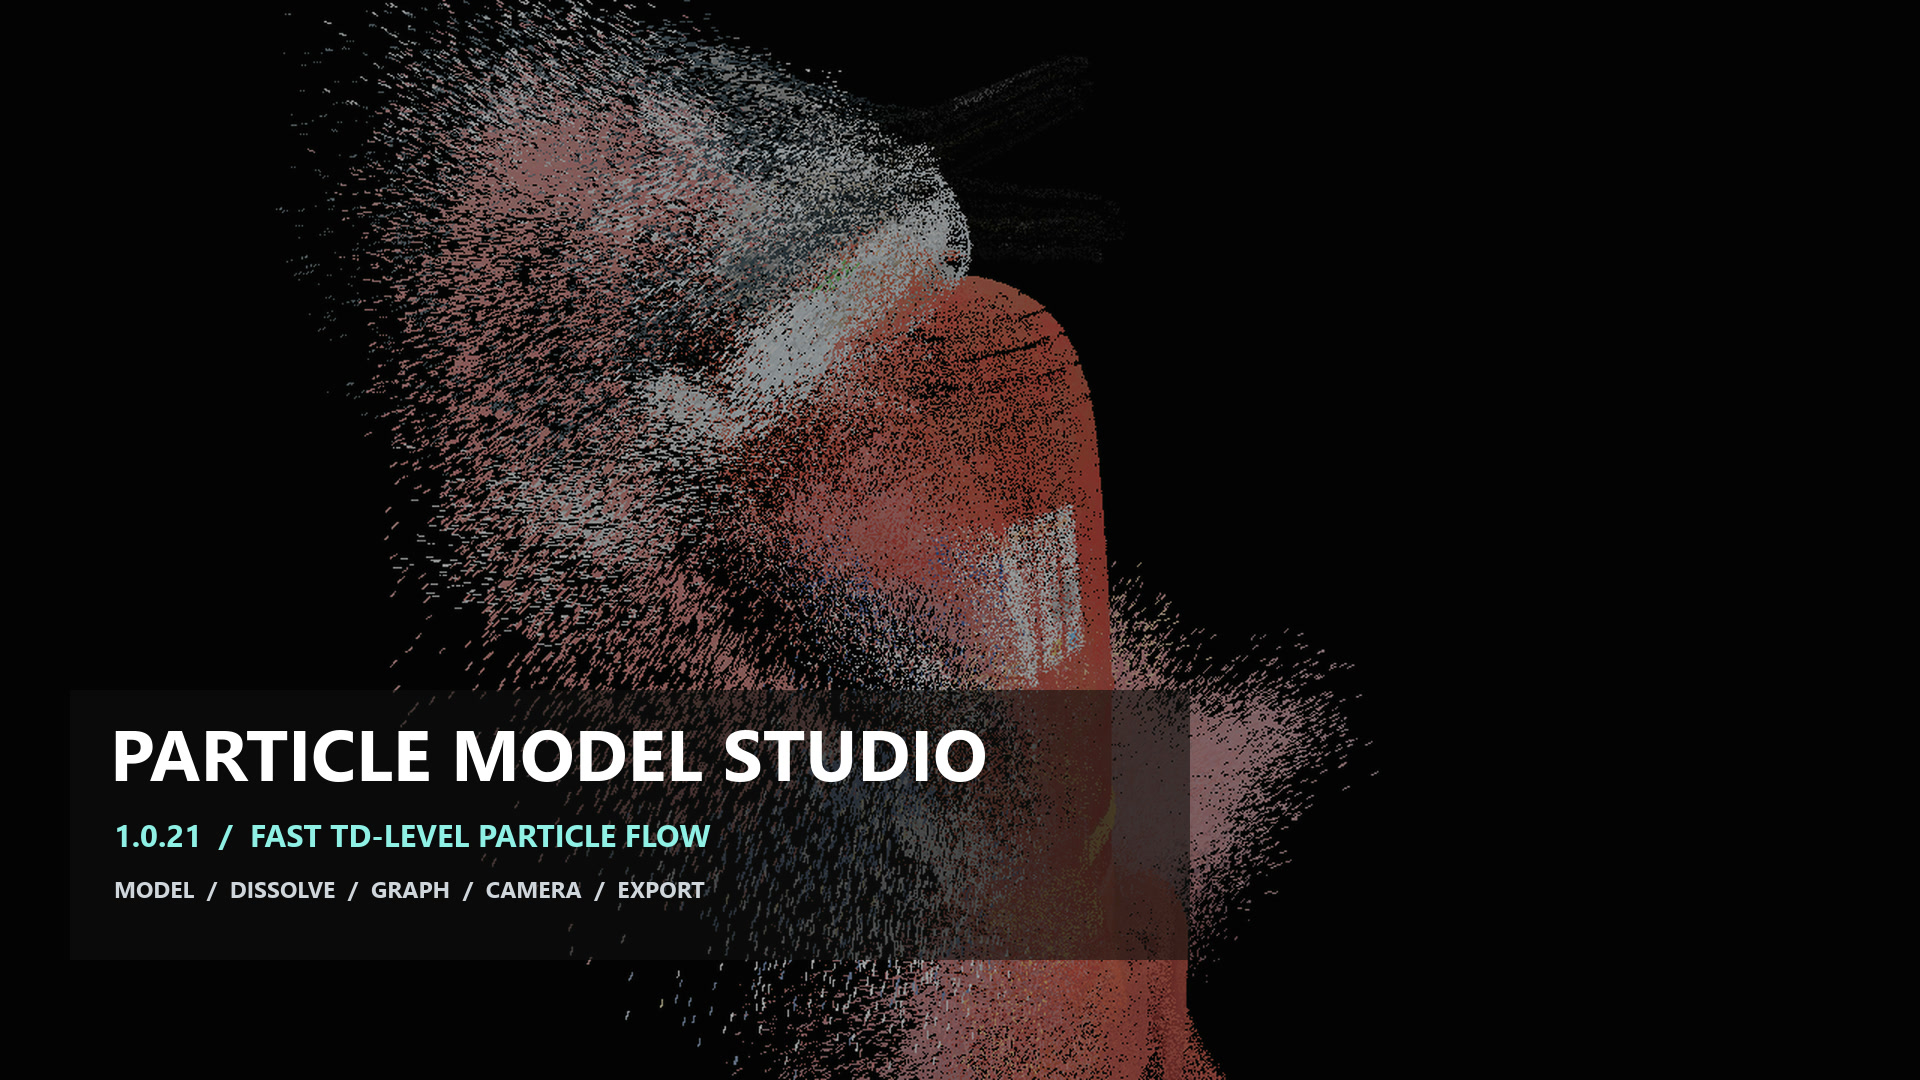
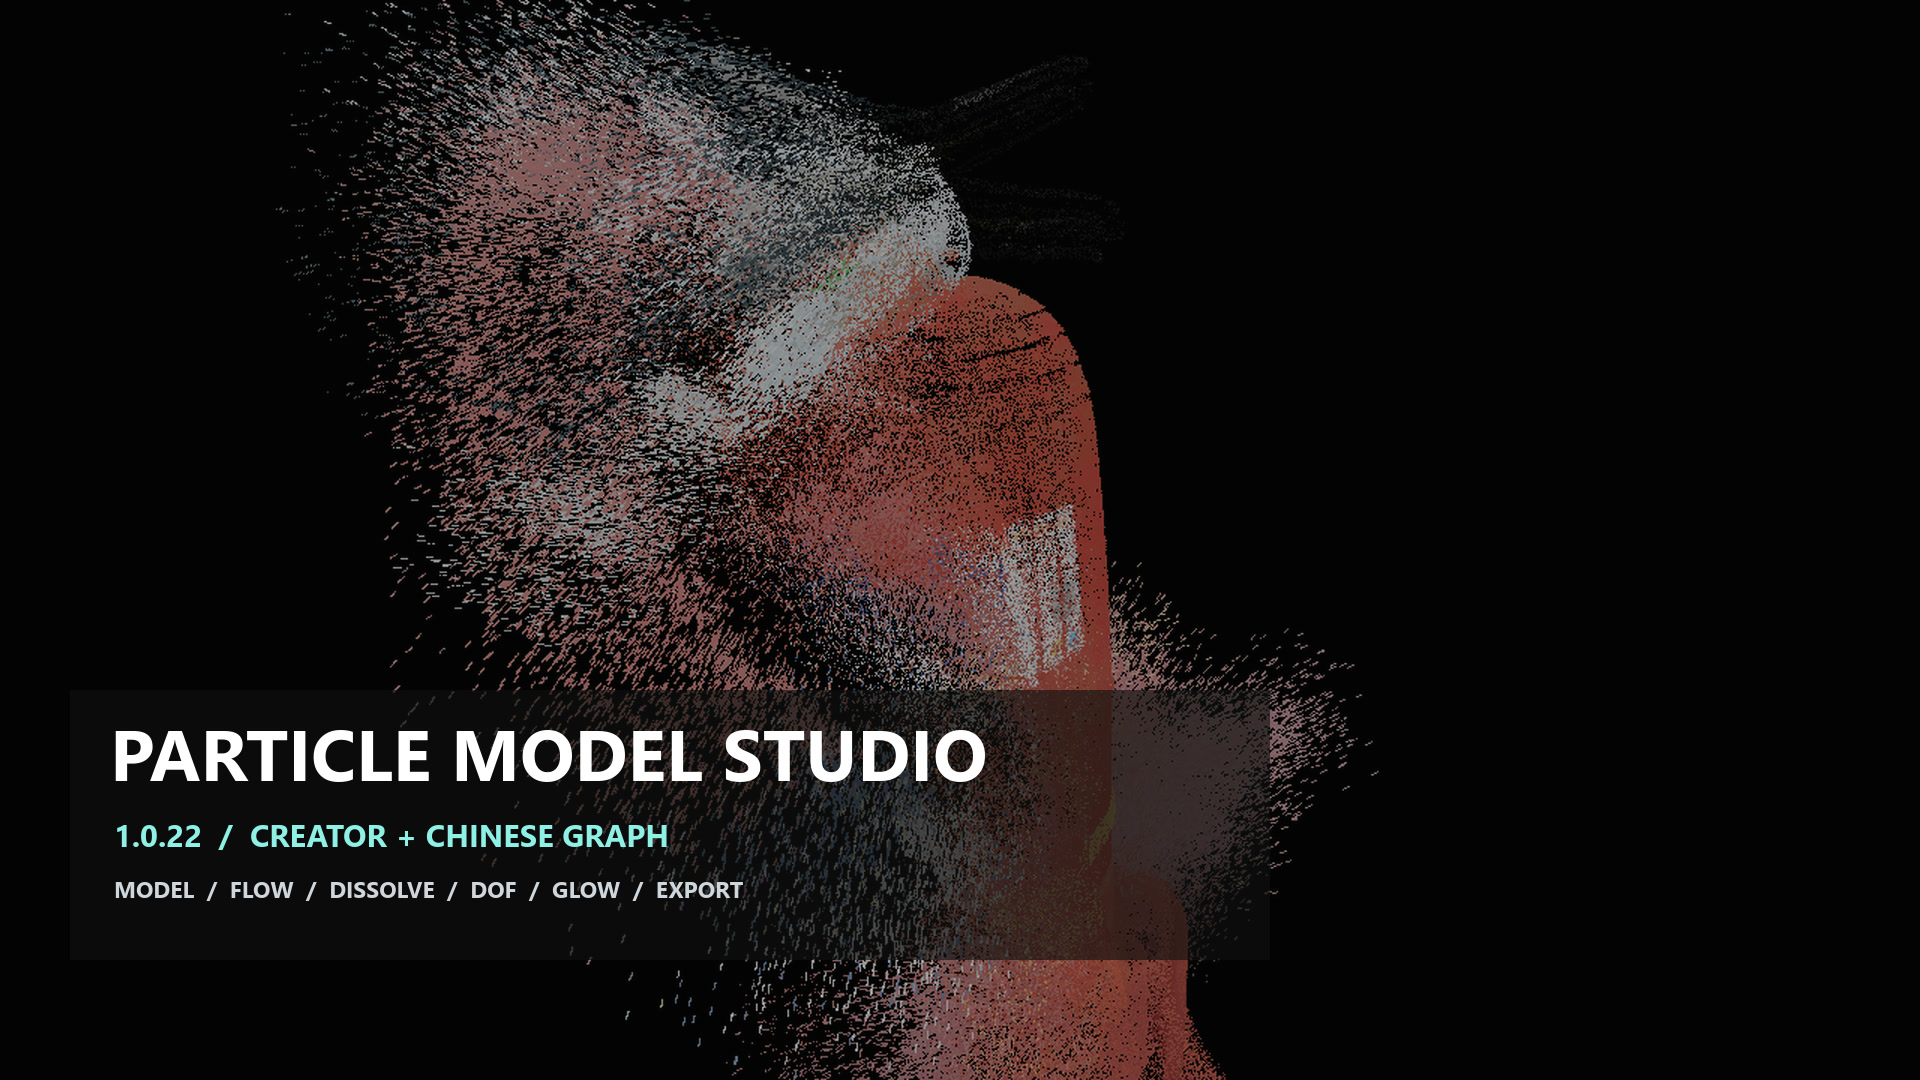
Add visual GitHub product and emission guides

Changed region(s): [[0.125, 0.7639, 0.375, 0.8556], [0.5938, 0.6417, 0.6875, 0.8556]]

diff --git a/README.md b/README.md
@@ -9,11 +9,32 @@
 [![Platform](https://img.shields.io/badge/platform-Windows%20x64-0078D6)](https://github.com/ying1459/particle-model-studio/releases/latest)
 [![Three.js](https://img.shields.io/badge/Three.js-000000?logo=threedotjs&logoColor=white)](https://threejs.org/)
 
-**用少量参数快速做出可交付的实时 3D 粒子效果。** 导入模型，选择风格，调整消散与扩散，即可预览、K 帧并导出透明 MOV 或 MP4；需要更深控制时，再进入中文节点图谱。
+## 它是什么
 
-Particle Model Studio is a Windows desktop particle editor for fast, production-ready 3D dissolves. Start with creator-friendly presets, then move into a Chinese node graph, GPU feedback, camera animation, glow, depth of field, and transparent video export when needed.
+**Particle Model Studio 是一款面向视觉创作者的实时 3D 粒子软件。** 它不要求你先学会 TouchDesigner 的节点体系：导入模型、选择风格、调整几个直观参数，就能得到消散、逸散、流丝、烟尘、辉光、景深和镜头动画；需要更深控制时，再进入全中文 Graph。
 
-![Particle Model Studio 1.0.21](docs/images/promo-poster.jpg)
+> 我们要替代的是复杂的制作流程，不是照搬 TD 的操作方式。Creator 负责快速出片，Graph 负责无限扩展。
+
+![Particle Model Studio 从模型到成片的四步工作流](docs/images/workflow-overview.svg)
+
+## 一眼看懂软件
+
+| 你要做什么 | 在软件里怎么做 | 得到什么 |
+| --- | --- | --- |
+| 快速做模型粒子效果 | 导入模型 → 选择三套风格之一 → 调整五个主要参数 | 可直接预览和导出的 TD 风格粒子镜头 |
+| 做模型逸散与局部破碎 | 点击右侧“逸散”，调整数量、距离、风向、湍流和破碎范围 | 模型本体与逸散颗粒连续衔接 |
+| 做镜头与后期 | 设置相机、光圈景深、Deep Glow 风格辉光和关键帧 | 视口、相机预览、静帧与视频保持一致 |
+| 搭复杂粒子系统 | 进入中文 Graph，组合发射、生命周期、力场、吸引、碰撞与反馈 | 可复用、可旁路、可诊断的高级效果链 |
+
+## 粒子逸散图解
+
+![Particle Model Studio 模型粒子逸散图解](docs/images/model-emission-overview.svg)
+
+模型逸散由五部分共同构成：模型本体决定保留的实体质感，局部破碎限定作用区域，逸散数量与距离控制尾迹规模，风向和湍流塑造运动路径，粒子尺寸、透明度与辉光控制最终材质。点击右侧“逸散”属性页会自动切换到该渲染模式。
+
+## 实机效果
+
+![Particle Model Studio 1.0.22 实机粒子效果](docs/images/promo-poster.jpg)
 
 [▶ 观看 1.0.21 宣传片](https://github.com/ying1459/particle-model-studio/releases/download/v1.0.21/Particle-Model-Studio-1.0.21-Promo-1080p.mp4) · [⬇ 下载最新版](https://github.com/ying1459/particle-model-studio/releases/latest) · [🗺 开发路线](docs/TOUCHDESIGNER_PARITY_ROADMAP.md)
 
@@ -23,7 +44,7 @@ Particle Model Studio is a Windows desktop particle editor for fast, production-
 
 右侧点击“逸散”会直接进入模型逸散模式，切回粒子、消散或生长页会返回模型粒子模式。工程中的逸散参数与关键帧保持不变，不再需要到“工程”页二次切换模式。
 
-## 两种工作方式
+## Creator 与 Graph
 
 | 模式 | 适合谁 | 使用方式 |
 | --- | --- | --- |